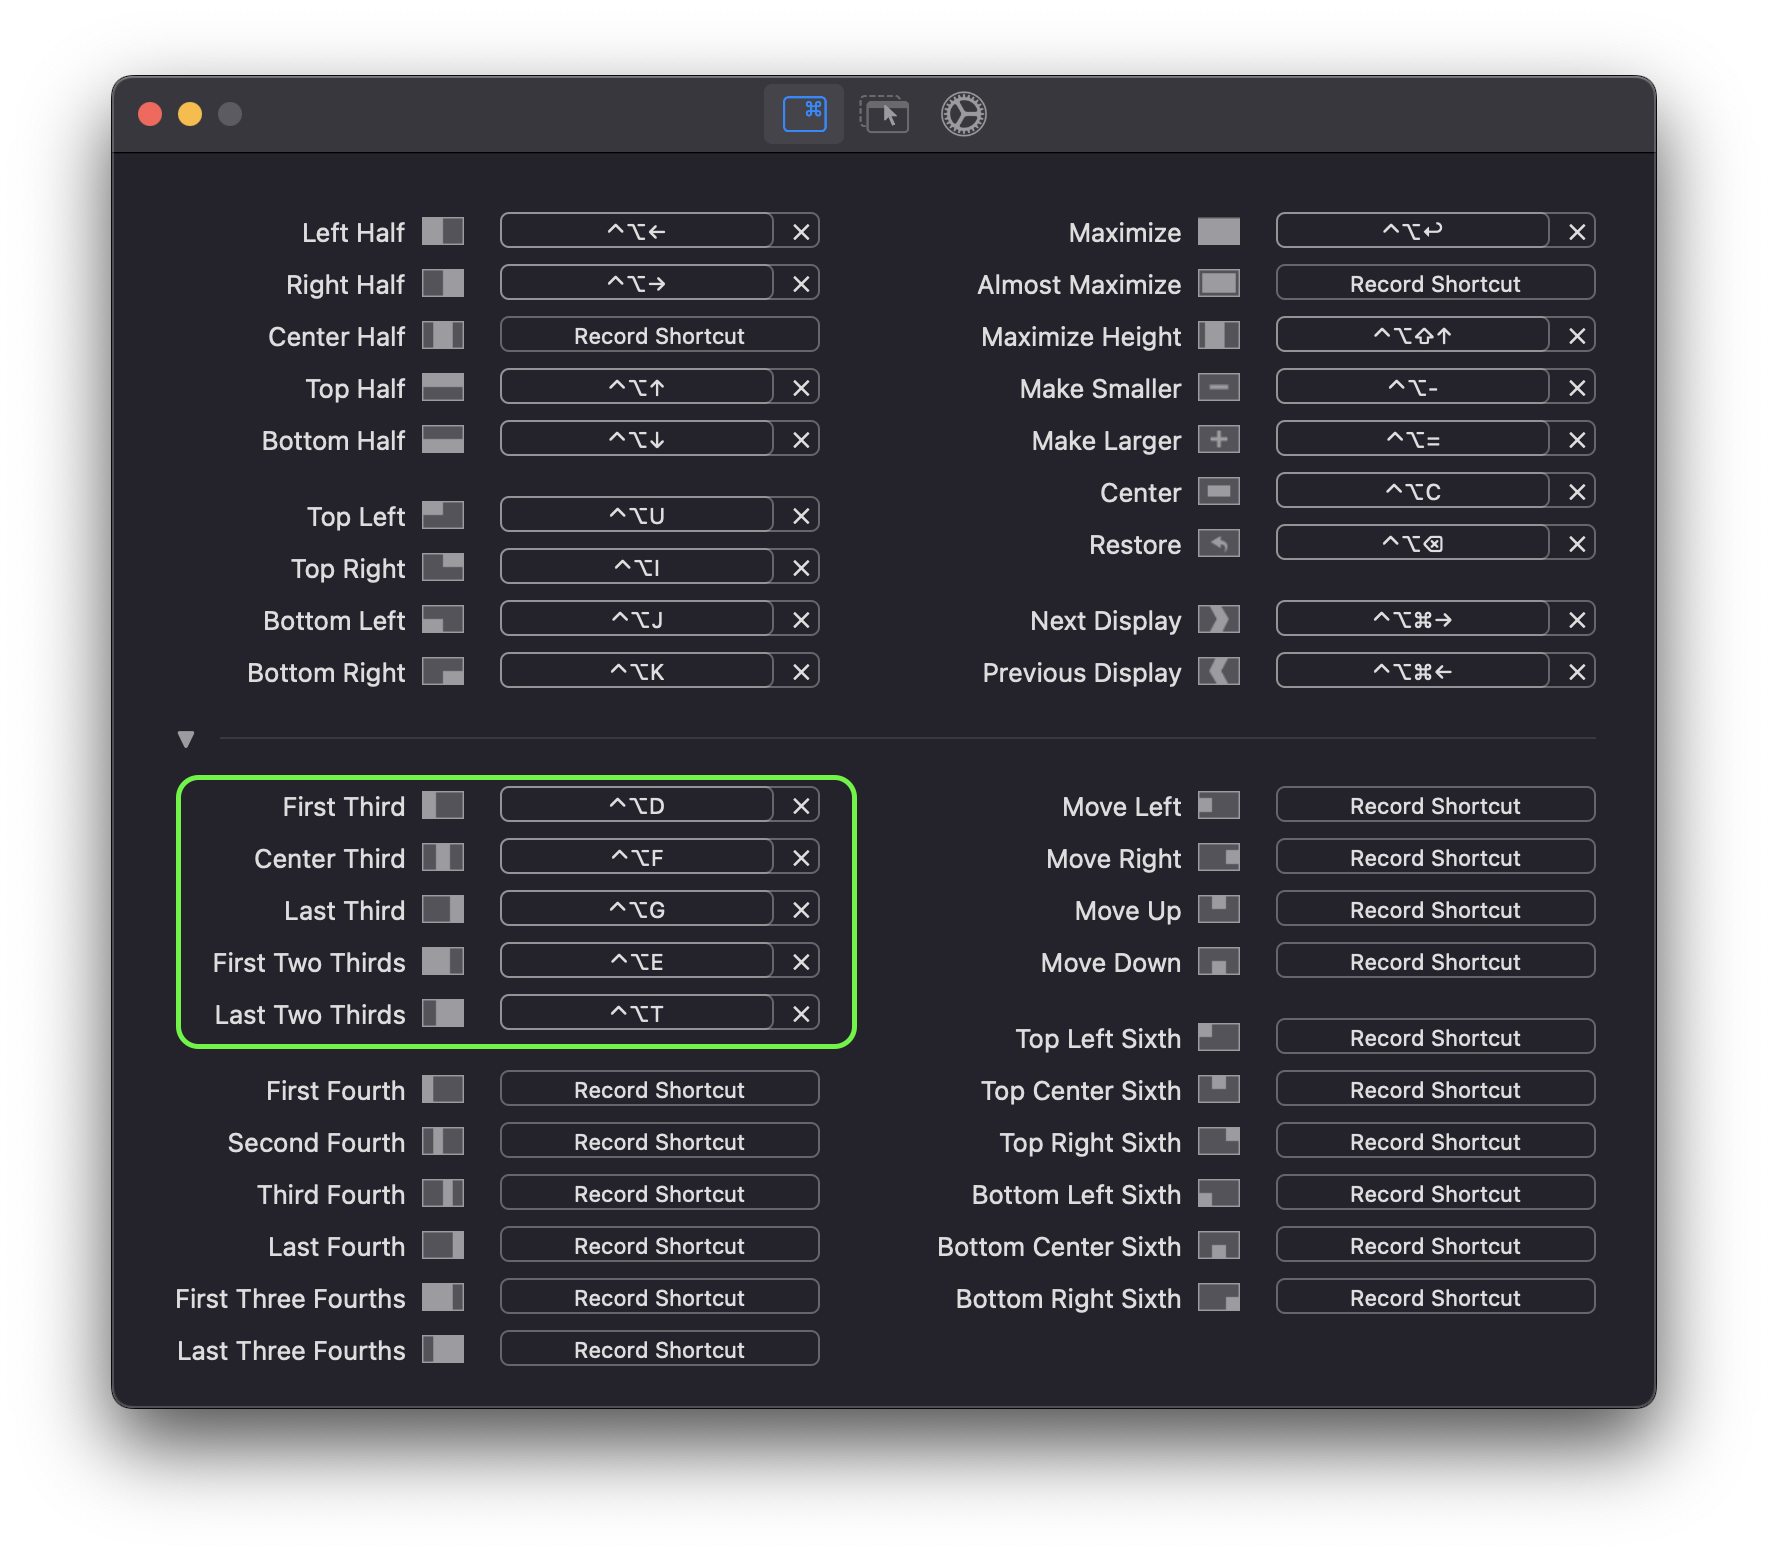
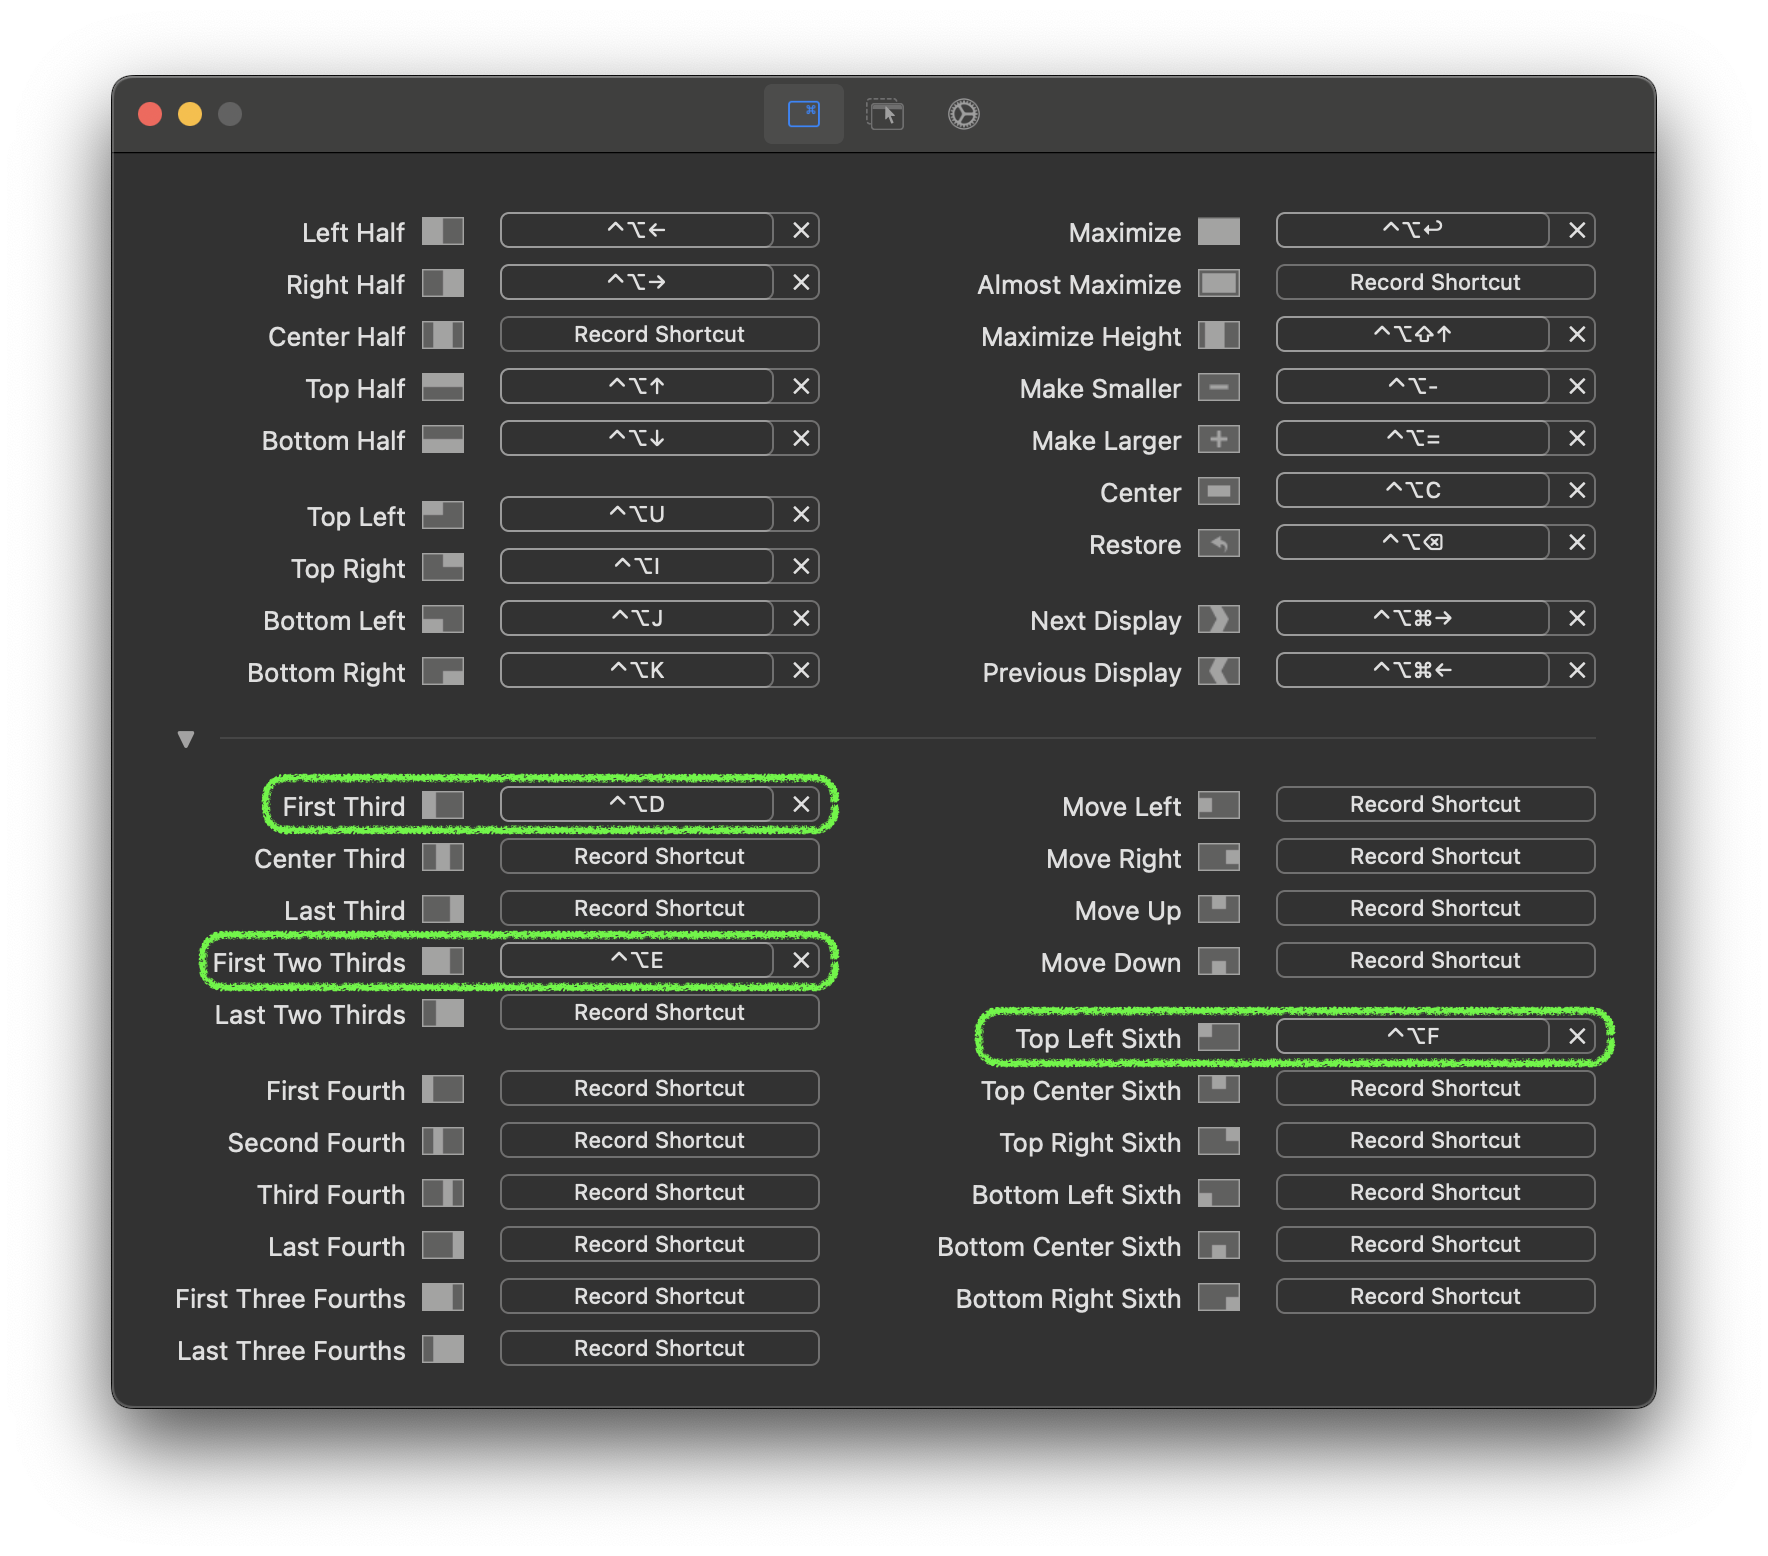
docs: Retire mas CLI, update config and preferences

diff --git a/mac_os/README.md b/mac_os/README.md
@@ -1,20 +1,24 @@
-## MAC OS
+# MAC OS
 
-### macOS settings
+## macOS settings
 
-Run `sh mac_os/setup.sh` for specific my custom _System Preferences_ setup. Edit it as you may please.
+Run `sh mac_os/setup.sh` for specific my custom _System Preferences_ setup. Edit the file as you may please before running.
 
-### Brew
+## App store apps
 
-I have 3 Brewfiles in the `./mac_os` folder, in order of elaboration: (The command to install use the specific Brewfile is in **brackets**)
+Apps from App store that I use can be found in [appstore.md](/mac_os/appstore.md).
+
+## Brew
+
+I have 3 Brewfiles in the `./mac_os` folder, in order of how elaborate the list is, starting with the least elaborate:
+
+(The command to install using a specific Brewfile is in **brackets**)
 
 - Brewfile (`brew bundle --file mac_os/work.Brewfile`)
 - work.Brewfile (`brew bundle --file mac_os/work.Brewfile`)
 - pro.Brewfile (`brew bundle --file mac_os/pro.Brewfile`)
 
-> A note on mas CLI
-
-Apps installed using [mas CLI](https://github.com/mas-cli/mas) would be saved in the Brewfile, in previous macOS versions. Use the lDs in the [`/mac_os/mas_list.txt`](/mac_os/mas_list.txt) to install.
+## Specific apps
 
 ### Rectangle
 
@@ -23,6 +27,8 @@ Once, rectangle is installed, import settings in [`/mac_os/RectangleConfig.json`
 For context, I've only added these:
 
 ![RectangleConfig](../img/rectangle.png)
+
+**HINT**: <i>Repeatedly using the keyboard shortcuts cycles through the options. For example clicking through `^⌥F` **five** times gets you to **Bottom Center Sixth**.</i>
 
 ### iTerm
 
@@ -36,7 +42,6 @@ To sync iTerm settings, open iTerm's **Preferences/General/Preferences**:
 ![iTerm preferences](../img/iterm.png)
 
 To save any updates to your preferences, open iTerm's **Preferences/General/Preferences** and after _Save Changes_, select **When Quitting**.
-
 
 ![Saving iTerm preferences](../img/iterm2.png)
 

diff --git a/README.md b/README.md
@@ -13,14 +13,14 @@
     Use this repo's scripts to set up machine (In six modes: [**Basic**](#basic), [**Core**](#core), [**Python**](#python), [**JavaScript**](#javascript), [**Work**](#work), and [**Pro**](#pro))
 
     For a recurrent server or workstation (that's not personal), there are two options: (The aliases are a time-saver!)
-    - (Easy) Copy [.aliases-basic](/.aliases-basic) to `.aliases` and run `source .aliases` for every new shell session
+    - (Easy and quick) Copy [.aliases-basic](/.aliases-basic) to `.aliases` and run `source .aliases` for every new shell session
 
       ```sh
       curl https://raw.githubusercontent.com/NdagiStanley/dotfiles/main/.aliases-basic > .aliases
       source .aliases
       ```
 
-    - Install `zsh`, [install oh-my-zsh](/install.sh#L14), copy [.zshrc-basic](/.zshrc-basic) to `.zshrc` and run `source .zshrc`
+    - Install `zsh`, [install oh-my-zsh](/install.sh#L20), copy [.zshrc-basic](/.zshrc-basic) to `.zshrc` and run `source .zshrc`
 
 4. [Et al (Others)](#4-et-al)
 
@@ -44,6 +44,8 @@ First, install Xcode Command Line Tools from the App Store:
 ```sh
 xcode-select --install
 ```
+
+**HINT**: <i>Since this app is huge, you can transfer Xcode from a similar macOS machine via AirPlay to fast track this.</i>
 
 ### Linux
 
@@ -180,10 +182,10 @@ Once in a while I run:
 #### SSH keys
 
 ```bash
-ssh-keygen -t rsa -b 4096 -C ".."
+ssh-keygen -t ed25519 -C ".."
 eval $(ssh-agent -s)
-ssh-add ~/.ssh/id_rsa
-pbcopy < ~/.ssh/id_rsa.pub
+ssh-add ~/.ssh/id_ed25519
+pbcopy < ~/.ssh/id_ed25519.pub
 ```
 
 > The last command is different in [Linux](/linux_os#git) and [Windows](/windows_os#git) ([Reference](https://help.github.com/en/articles/adding-a-new-ssh-key-to-your-github-account))

diff --git a/mac_os/appstore.md b/mac_os/appstore.md
@@ -1,0 +1,11 @@
+# App Store apps
+
+- Slack
+
+The app(s) above are installable via Brew but I prefer installing via App Store to get up and running quickly.
+
+- Taurine
+- Bandwidth+
+- OneDrive
+- Microsoft OneNote
+- Trello
